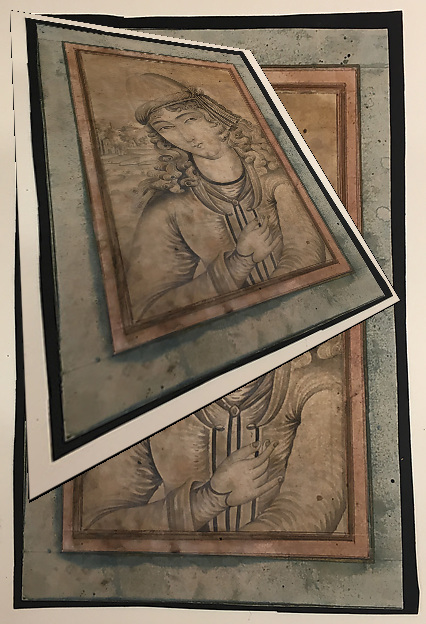
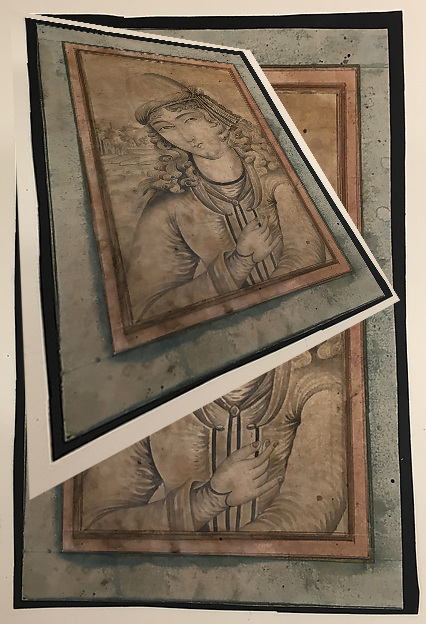
Replace my busted perspective sampling code with code that's endorsed by folks who work on ImageSharp from https://github.com/SixLabors/ImageSharp/issues/787

diff --git a/ImageTransforms.cs b/ImageTransforms.cs
@@ -2,8 +2,9 @@ using System;
 using System.Numerics;
 
 using SixLabors.ImageSharp.Processing;
+using MathNet.Numerics.LinearAlgebra;
+using SixLabors.Primitives;
 
-using PixelColor = SixLabors.ImageSharp.PixelFormats.Rgba32;
 using Bitmap = SixLabors.ImageSharp.Image<SixLabors.ImageSharp.PixelFormats.Rgba32>;
 
 namespace AppraisalBot
@@ -64,126 +65,88 @@ namespace AppraisalBot
 
             Bitmap photoImage = Program.LoadImage(Program.LoadImageType.Source, backgroundImageName);
 
-            return PerspectiveTransform( sourceArtImage, photoImage, r0prime, r1prime, r2prime, r3prime );
+            return PerspectiveTransform( sourceArtImage, photoImage, new Point((int)r0prime.X, (int)r0prime.Y), new Point((int)r1prime.X, (int)r1prime.Y), new Point((int)r2prime.X, (int)r2prime.Y), new Point((int)r3prime.X, (int)r3prime.Y) );
         }
 
-        public static Bitmap PerspectiveTransform( Bitmap sourceArtImage, Bitmap destinationImage, Vector2 r0prime, Vector2 r1prime, Vector2 r2prime, Vector2 r3prime )
+        public static Bitmap PerspectiveTransform( Bitmap sourceArtImage, Bitmap destinationImage, Point r0prime, Point r1prime, Point r2prime, Point r3prime )
         {
             // Corner numbering chosen arbitrarily
             // 0    1
             //
             // 2    3
             
-            // Locations of the art image corners in source space.
-            Vector2 r0 = new Vector2( 0,                    0 );
-            Vector2 r1 = new Vector2( sourceArtImage.Width, 0 );
-            Vector2 r2 = new Vector2( 0,                    sourceArtImage.Height );
-            Vector2 r3 = new Vector2( sourceArtImage.Width, sourceArtImage.Height );
+            Matrix4x4 newMatrix = CalculateProjectiveTransformationMatrix(
+                sourceArtImage.Width,
+                sourceArtImage.Height,
+                r0prime,
+                r1prime,
+                r2prime,
+                r3prime);
 
-            // To transform the image into destination space, we will need a perspective
-            // matrix. We will solve a system of equations and then use the results from
-            // that to create the perspective matrix. Reference for this math is at:
-            // http://www.vis.uky.edu/~ryang/Teaching/cs635-2016spring/Lectures/05-geo_trans_1.pdf
+            sourceArtImage.Mutate( x => x.Transform(new ProjectiveTransformBuilder().AppendMatrix(newMatrix)));
 
-            double[,] systemOfEquations = {
-                {r0.X, r0.Y, 1.0, 0.0, 0.0, 0.0, -r0.X * r0prime.X, -r0.Y * r0prime.X},
-                {r1.X, r1.Y, 1.0, 0.0, 0.0, 0.0, -r1.X * r1prime.X, -r1.Y * r1prime.X},
-                {r2.X, r2.Y, 1.0, 0.0, 0.0, 0.0, -r2.X * r2prime.X, -r2.Y * r2prime.X},
-                {r3.X, r3.Y, 1.0, 0.0, 0.0, 0.0, -r3.X * r3prime.X, -r3.Y * r3prime.X},
-
-                {0.0, 0.0, 0.0, r0.X, r0.Y, 1.0, -r0.X * r0prime.Y, -r0.Y * r0prime.Y},
-                {0.0, 0.0, 0.0, r1.X, r1.Y, 1.0, -r1.X * r1prime.Y, -r1.Y * r1prime.Y},
-                {0.0, 0.0, 0.0, r2.X, r2.Y, 1.0, -r2.X * r2prime.Y, -r2.Y * r2prime.Y},
-                {0.0, 0.0, 0.0, r3.X, r3.Y, 1.0, -r3.X * r3prime.Y, -r3.Y * r3prime.Y},
-            };
-
-            double[] otherSideOfTheEqualsSign = { 
-                r0prime.X,
-                r1prime.X,
-                r2prime.X,
-                r3prime.X,
-                r0prime.Y,
-                r1prime.Y,
-                r2prime.Y,
-                r3prime.Y,
-            };
-
-            double[] solveResults = StarMathLib.StarMath.solve( systemOfEquations, otherSideOfTheEqualsSign );
-
-            // Perspective matrix transforms a point from source space to destination space.
-            Matrix4x4 perspectiveTransform = new Matrix4x4(
-                (float)solveResults[0], (float)solveResults[3], (float)solveResults[6], 0.0f,
-                (float)solveResults[1], (float)solveResults[4], (float)solveResults[7], 0.0f,
-                (float)solveResults[2], (float)solveResults[5], 1.0f,                   0.0f,
-                0.0f,                   0.0f,                   0.0f,                   1.0f);
-
-            // Inverted perspective matrix transforms a point from destination space to source space.
-            Matrix4x4 invertedPerspectiveTransform = new Matrix4x4();
-            Matrix4x4.Invert( perspectiveTransform, out invertedPerspectiveTransform );
-
-            // This could probably be optimized to only iterate through the pixels that matter.
-            for ( int destinationY = 0; destinationY < destinationImage.Height; destinationY++ )
-            {
-                for ( int destinationX = 0; destinationX < destinationImage.Width; destinationX++ )
-                {
-                    Vector4 destinationPoint = new Vector4( destinationX, destinationY, 1.0f, 0.0f );
-
-                    Vector4 sourcePoint = Vector4.Transform( destinationPoint, invertedPerspectiveTransform );
-
-                    sourcePoint /= sourcePoint.Z; // Normalize 2D homogenous coordinates
-
-                    if ( sourcePoint.X > -1 && sourcePoint.Y > -1
-                    && sourcePoint.X < sourceArtImage.Width + 1 && sourcePoint.Y < sourceArtImage.Height + 1 )
-                    {
-                        destinationImage[ destinationX, destinationY ] = SampleImage( sourceArtImage, sourcePoint );
-                    }
-                }
-            }
+            destinationImage.Mutate( x => x.DrawImage(sourceArtImage, 1.0f));
 
             return destinationImage;
         }
 
-        public static PixelColor SampleImage( Bitmap image, Vector4 point )
+        private static Matrix4x4 CalculateProjectiveTransformationMatrix(int width, int height, Point newTopLeft, Point newTopRight, Point newBottomLeft, Point newBottomRight)
         {
-            // Does a bilinear interpolation. Not as good as it could be but prevents
-            // major aliasing.
-
-            Vector2[] samplePoints = {
-                new Vector2( (float)Math.Floor( point.X ), (float)Math.Floor( point.Y ) ),
-                new Vector2( (float)Math.Ceiling( point.X ), (float)Math.Floor( point.Y ) ),
-                new Vector2( (float)Math.Floor( point.X ), (float)Math.Ceiling( point.Y ) ),
-                new Vector2( (float)Math.Ceiling( point.X ), (float)Math.Ceiling( point.Y ) ),
-                 };
-
-            Vector4[] sampleColors = new Vector4[4];
-
-            for ( int i = 0; i < samplePoints.Length; i++ )
+            Matrix<double> s = MapBasisToPoints(
+                new Point(0, 0),
+                new Point(width, 0),
+                new Point(0, height),
+                new Point(width, height)
+            );
+            Matrix<double> d = MapBasisToPoints(newTopLeft, newTopRight, newBottomLeft, newBottomRight);
+            Matrix<double> result = d.Multiply(AdjugateMatrix(s));
+            Matrix<double> normalized = result.Divide(result[2, 2]);
+            return new Matrix4x4(
+                (float)normalized[0, 0], (float)normalized[1, 0], 0, (float)normalized[2, 0],
+                (float)normalized[0, 1], (float)normalized[1, 1], 0, (float)normalized[2, 1],
+                0, 0, 1, 0,
+                (float)normalized[0, 2], (float)normalized[1, 2], 0, (float)normalized[2, 2]
+            );
+        }
+        private static Matrix<double> AdjugateMatrix(Matrix<double> matrix)
+        {
+            if (matrix.RowCount != 3 || matrix.ColumnCount != 3)
             {
-                Vector2 samplePoint = samplePoints[i];
-
-                // If the sample point is within bounds, sample it.
-                // Otherwise leave it at the default color value of 0,0,0,0
-                if ( samplePoint.X >= 0
-                    && samplePoint.X < image.Width
-                    && samplePoint.Y >= 0
-                    && samplePoint.Y < image.Height )
-                {
-                    sampleColors[i] = image[ (int)samplePoint.X, (int)samplePoint.Y ].ToVector4();
-                }
+                throw new ArgumentException("Must provide a 3x3 matrix.");
             }
 
-            float xAmount = point.X - (float)Math.Floor( point.X );
+            var adj = matrix.Clone();
+            adj[0, 0] = matrix[1, 1] * matrix[2, 2] - matrix[1, 2] * matrix[2, 1];
+            adj[0, 1] = matrix[0, 2] * matrix[2, 1] - matrix[0, 1] * matrix[2, 2];
+            adj[0, 2] = matrix[0, 1] * matrix[1, 2] - matrix[0, 2] * matrix[1, 1];
+            adj[1, 0] = matrix[1, 2] * matrix[2, 0] - matrix[1, 0] * matrix[2, 2];
+            adj[1, 1] = matrix[0, 0] * matrix[2, 2] - matrix[0, 2] * matrix[2, 0];
+            adj[1, 2] = matrix[0, 2] * matrix[1, 0] - matrix[0, 0] * matrix[1, 2];
+            adj[2, 0] = matrix[1, 0] * matrix[2, 1] - matrix[1, 1] * matrix[2, 0];
+            adj[2, 1] = matrix[0, 1] * matrix[2, 0] - matrix[0, 0] * matrix[2, 1];
+            adj[2, 2] = matrix[0, 0] * matrix[1, 1] - matrix[0, 1] * matrix[1, 0];
 
-            Vector4 topColor = Vector4.Lerp( sampleColors[0], sampleColors[1], xAmount );
-            Vector4 bottomColor = Vector4.Lerp( sampleColors[2], sampleColors[3], xAmount );
+            return adj;
+        }
 
-            float yAmount = point.Y - (float)Math.Floor( point.Y );
-
-            Vector4 finalValue = Vector4.Lerp( topColor, bottomColor, yAmount );
-
-            PixelColor outColor = new PixelColor( finalValue );
-
-            return outColor;
+        private static Matrix<double> MapBasisToPoints(Point p1, Point p2, Point p3, Point p4)
+        {
+            var A = Matrix<double>.Build.DenseOfArray(new double[,]
+            {
+                {p1.X, p2.X, p3.X},
+                {p1.Y, p2.Y, p3.Y},
+                {1, 1, 1}
+            });
+            var b = MathNet.Numerics.LinearAlgebra.Vector<double>.Build.Dense(new double[] { p4.X, p4.Y, 1 });
+            var aj = AdjugateMatrix(A);
+            var v = aj.Multiply(b);
+            var m = Matrix<double>.Build.DenseOfArray(new [,]
+            {
+                {v[0], 0, 0 },
+                {0, v[1], 0 },
+                {0, 0, v[2] }
+            });
+            return A.Multiply(m);
         }
     }
 

diff --git a/test/TestImageTransforms.cs b/test/TestImageTransforms.cs
@@ -23,10 +23,10 @@ namespace AppraisalBot
             ImageTransforms.PerspectiveTransform(
                 sourceImage,
                 copiedSourceImage,
-                new System.Numerics.Vector2( 10, 10 ),
-                new System.Numerics.Vector2( 250, 50 ),
-                new System.Numerics.Vector2( 30, 500 ),
-                new System.Numerics.Vector2( 400, 300 ));
+                new SixLabors.Primitives.Point(10, 10),
+                new SixLabors.Primitives.Point(250, 50),
+                new SixLabors.Primitives.Point(30, 500),
+                new SixLabors.Primitives.Point(400, 300));
             return copiedSourceImage;
         }
     }
@@ -34,7 +34,7 @@ namespace AppraisalBot
     public static class TestImageTransforms
     {
         [Fact]
-        public static void ComposeImageAcceptanceTest()
+        public static void TransformImageAcceptanceTest()
         {
             Bitmap actualImage = TestImageTransformUtils.TransformImage();
 
